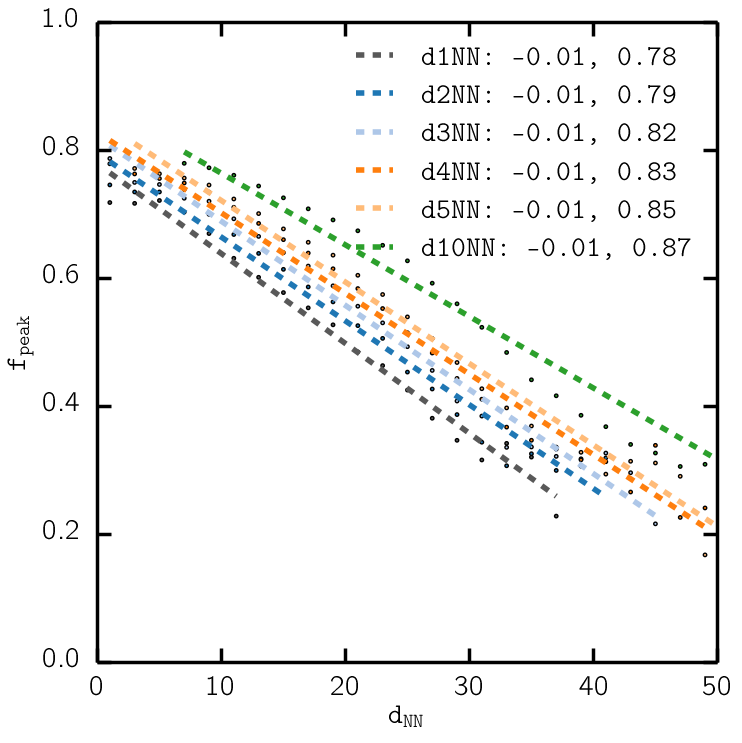
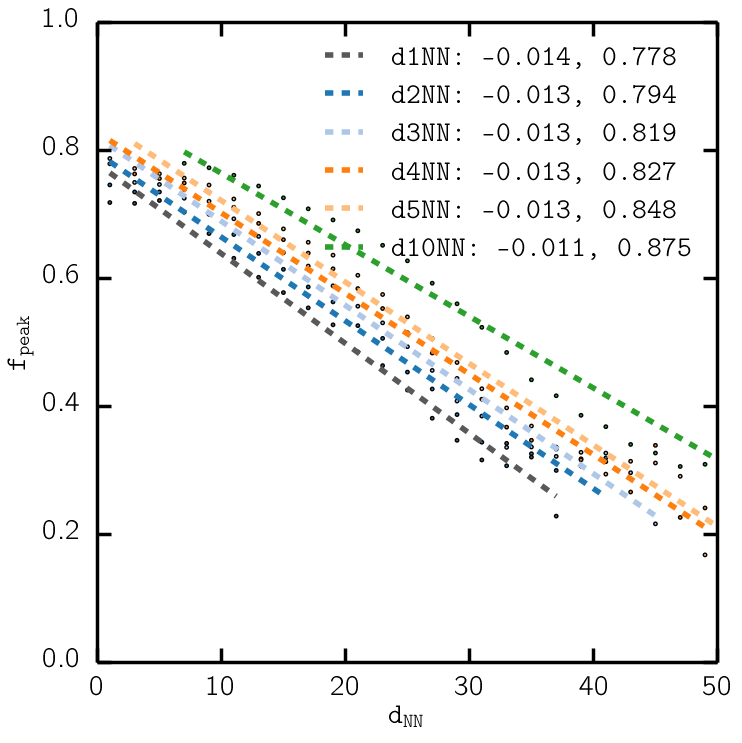
Ironing out some kinks int he fpeak code

Changed region(s): [[0.434, 0.0619, 0.9299, 0.1857], [0.434, 0.2167, 0.9299, 0.3405], [0.434, 0.3096, 0.465, 0.3405]]

diff --git a/photoz_env/dlos_env.py b/photoz_env/dlos_env.py
@@ -183,22 +183,26 @@ class DlosEnv:
             dlos_hist, mpc_mid, peak_param  = \
                     fc_dlos.dlos_hist_peak_fit(bin_dlos, fit='gauss', peak_range=[-15.0, 15.0])
             
+            if peak_param['fpeak'] == 0.0: 
+                continue 
+            fpeak_err = np.sqrt(peak_param['fpeak'] / np.float(len(bin_dlos)))
+            
             try:        # save avg_dNN and fpeak values 
                 dNN_avg.append( 0.5 * np.float(dNN_bin[0] + dNN_bin[1]) ) 
                 fpeaks.append( peak_param['fpeak'] ) 
-                fpeaks_err.append( np.sqrt(peak_param['fpeak'] / np.float(len(bin_dlos))) )
+                fpeaks_err.append( fpeak_err )
                 sigma.append( peak_param['sigma'] ) 
                 ndlos.append( len(bin_dlos) )
             except NameError: 
                 dNN_avg = [0.5 * np.float(dNN_bin[0] + dNN_bin[1])]
                 fpeaks = [peak_param['fpeak']]
-                fpeaks_err = [ np.sqrt(peak_param['fpeak'] / np.float(len(bin_dlos))) ]
+                fpeaks_err = [ fpeak_err ]
                 sigma = [peak_param['sigma']]
                 ndlos = [len(bin_dlos)]
             except TypeError: 
                 dNN_avg.append( np.float(dNN_bin) ) 
                 fpeaks.append( peak_param['fpeak'] ) 
-                fpeaks_err.append( np.sqrt(peak_param['fpeak'] / np.float(len(bin_dlos))) )
+                fpeaks_err.append( fpeak_err )
                 sigma.append( peak_param['sigma'] ) 
                 ndlos.append( len(bin_dlos) )
 
@@ -212,6 +216,7 @@ class DlosEnv:
         
         fit_head_str = ''.join([' Slope = ', str(fit_slope), ", y-int = ", str(fit_yint), '\n', 
             ' Column : dNN, fpeak, sigma, bestfit fpeak, N_dlos']) 
+        print fit_head_str
 
         bestfit_fpeak = np.array([
             dNN_avg[i] * fit_slope + fit_yint for i in range(len(dNN_avg))])
@@ -258,13 +263,13 @@ def fpeak_dNN(dNN, cat_corr, n_NN=3, **kwargs):
     #for dNN_i in dNN_list:
     #    min_indx.append((np.abs(dNN_avg - dNN_i)).argmin())
 
-    interp_fpeak = sp.interpolate.interp1d(dNN_avg, fpeaks, kind='linear')
+    #interp_fpeak = sp.interpolate.interp1d(dNN_avg, fpeaks, kind='linear')
         
-    return interp_fpeak(dNN)      
+    return np.interp( dNN, dNN_avg, fpeaks )
 
 if __name__=="__main__": 
     cat_corr = {'catalog': {'name': 'nseries'}, 'correction': {'name': 'upweight'}} 
-    for nnn in [1,2,3,4,5,10]: 
+    for nnn in [4,10]: 
         comb_dlos = DlosEnv(cat_corr, n_NN=nnn)
         comb_dlos.fpeak_env(stepsize=2)
     print fpeak_dNN([1.2, 3.4, 5.7], cat_corr, n_NN=3) 

diff --git a/photoz_env/plot.py b/photoz_env/plot.py
@@ -30,8 +30,7 @@ def plot_dLOS_env(cat_corr, n_NN=3, **kwargs):
 
     '''
     # combined dLOS for catalog and correction 
-    comb_dlos = dlos_env.dlos_env(cat_corr, n=n, **kwargs) 
-
+    comb_dlos = dlos_env.DlosEnv(cat_corr, n_NN=n_NN, **kwargs) 
     combined_dlos = comb_dlos.dlos
     combined_dNN = comb_dlos.env
 
@@ -41,7 +40,7 @@ def plot_dLOS_env(cat_corr, n_NN=3, **kwargs):
     fig = plt.figure(1, figsize=(14,5))
     sub = fig.add_subplot(1,1,1)
     
-    print 'd'+str(n)+'NN, Minimum ', min(combined_dNN), ' Maximum ', max(combined_dNN)
+    print 'd'+str(n_NN)+'NN, Minimum ', min(combined_dNN), ' Maximum ', max(combined_dNN)
 
     # bin dNN values
     dnn_step = 2    # currently hardcoded
@@ -170,7 +169,7 @@ def plot_dLOS_fpeak_env(cat_corr, n_NN=3, **kwargs):
         fit_slope = fit_param.params[0]
         fit_yint = fit_param.params[1]
 
-        dNN_label += ': '+str(round(fit_slope,2))+', '+str(round(fit_yint, 2))
+        dNN_label += ': '+str(round(fit_slope, 4))+', '+str(round(fit_yint, 4))
         # plot best line fit 
         sub.plot( np.array(dNN_avg), fc_dlos.fit_linear(np.array(dNN_avg), fit_param.params), 
                 lw=4, ls='--', c=pretty_colors[i_nNN], label=dNN_label)       
@@ -287,8 +286,8 @@ def plot_dLOS_env_fpeakdist(cat_corr, n_NN=3, **kwargs):
         fpeak_high = fpeak_binedges[1:]
         fpeak_mid = np.array([0.5 * (fpeak_low[i] + fpeak_high[i]) for i in range(len(fpeak_low))]) 
     
+        fpeak_label += '; sigma = '+str(round(np.std(fpeaks), 4))
         sub.step(fpeak_low, fpeak_dist, lw=4, color=pretty_colors[i_nNN], label = fpeak_label)
-        print np.std(fpeaks)
 
     sub.set_xlabel(r"$\mathtt{f_{peak}(dNN)}$", fontsize=20)
     sub.set_ylabel(r'$\mathtt{N_{gal}}$', fontsize=20) 
@@ -304,4 +303,6 @@ def plot_dLOS_env_fpeakdist(cat_corr, n_NN=3, **kwargs):
 
 if __name__=='__main__':
     cat_corr = {'catalog': {'name': 'nseries'}, 'correction': {'name': 'upweight'}}
+    plot_dLOS_fpeak_env(cat_corr, n_NN=[1,2,3,4,5,10])
+    plot_dLOS_envdist(cat_corr, n_NN=[1,2,3,4,5,10])
     plot_dLOS_env_fpeakdist(cat_corr, n_NN=[1,2,3,4,5,10])

diff --git a/fibcol_dlos.py b/fibcol_dlos.py
@@ -884,7 +884,7 @@ def mpfit_linear(p, fjac=None, x=None, y=None, err=None):
     status = 0 
     if err == None: 
         err = np.array([1.0 for i in range(len(x))])
-    return([status, (y-model/err)]) 
+    return([status, (y-model)/err]) 
 
 def mpfit_peak_expon(p, fjac=None, x=None, y=None): 
     model = peak_expon(x, p) 
@@ -926,7 +926,7 @@ def dlos_hist_peak_fit(dlos, fit='gauss', peak_range=[-15.0, 15.0]):
         binsize = 2.0*iqr*(2.0*n_sample)**(-1.0/3.0)        # appropriate bin size 
     else: 
         binsize = 0.25
-    print 'Freedman-Diaconis binsize = ', binsize
+    #print 'Freedman-Diaconis binsize = ', binsize
     #------------------------------------------------------------------------------------
     # recompute histogram using freedman-diaconis binsize 
     n_bins = int((x_max-x_min)/binsize)         # new n_bin 
@@ -971,8 +971,8 @@ def dlos_hist_peak_fit(dlos, fit='gauss', peak_range=[-15.0, 15.0]):
     fpeak_dist = np.float( len(dlos[ (dlos > fpeak_xmin) & (dlos < fpeak_xmax) ]) )\
             /np.float(len(dlos))  # computed from the distribution
 
-    print 'fpeak from fitting = ', fpeak
-    print 'fpeak from distrib = ', fpeak_dist 
+    #print 'fpeak from fitting = ', fpeak
+    #print 'fpeak from distrib = ', fpeak_dist 
 
     fit_dict = {'amp': bestfit_amp, 'sigma': sigma, 'fpeak': fpeak_dist} 
 

diff --git a/photoz_env/correction.py b/photoz_env/correction.py
@@ -189,9 +189,9 @@ def build_photoz_env_dlospeak_fibcol(cat_corr, **kwargs):
             raise NotImplementedError("Only Gaussian best-fit function implemented for peak correction")
 
         if (comdis_upw[ii] + rand2 > survey_comdis_max) or (comdis_upw[ii] + rand2 < survey_comdis_max): 
-            collided_z = fc_data.comdis2z(comdis_upw[ii] - rand2, **cosmo)      # convert comoving distnace to z 
-        else: 
-            collided_z = fc_data.comdis2z(comdis_upw[ii] + rand2, **cosmo)
+            rand2 = -1.0 * rand2
+
+        collided_z = fc_data.comdis2z(comdis_upw[ii] + rand2, **cosmo)      # convert comoving distnace to z 
         
         if 'doublecheck' in kwargs.keys(): 
             if kwargs['doublecheck']: 
